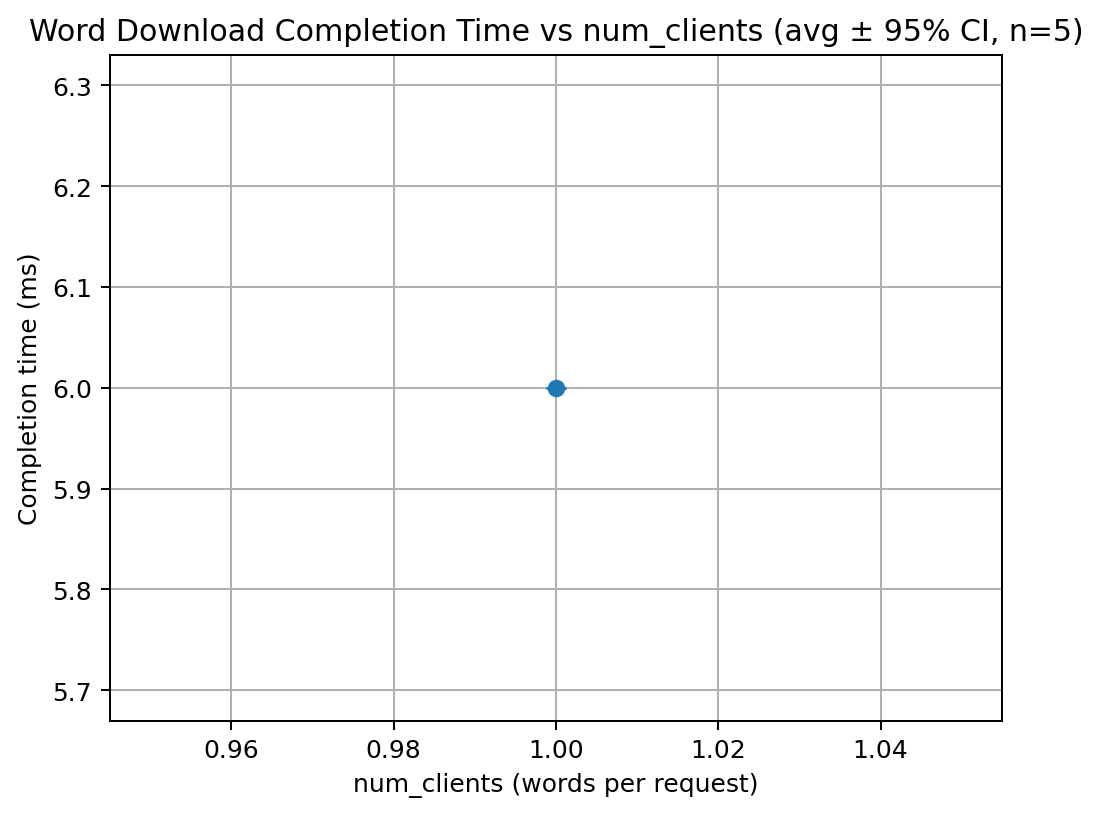
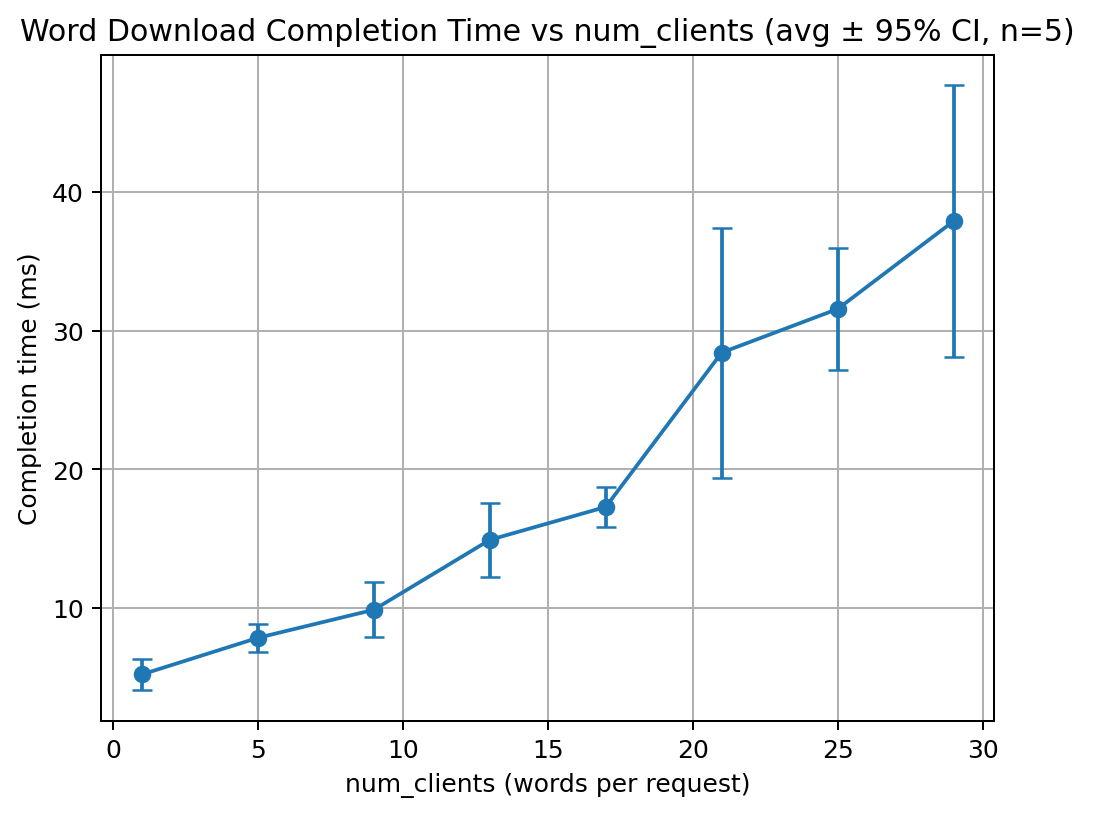
working part 2

diff --git a/part2/run_experiments.py b/part2/run_experiments.py
@@ -52,6 +52,7 @@ def main(single_run: bool = False):
     data = read_json()
     NUM_CLIENTS_LIST = data["num_clients"]
     NUM_CLIENTS = list(range(1, NUM_CLIENTS_LIST+1, 4)) if NUM_CLIENTS_LIST > 4 else [NUM_CLIENTS_LIST]
+    NUM_CLIENTS.append(32)
     NUM_CLIENTS = [1] if single_run else NUM_CLIENTS
 
     with RESULTS_CSV.open("w", newline="") as f:
